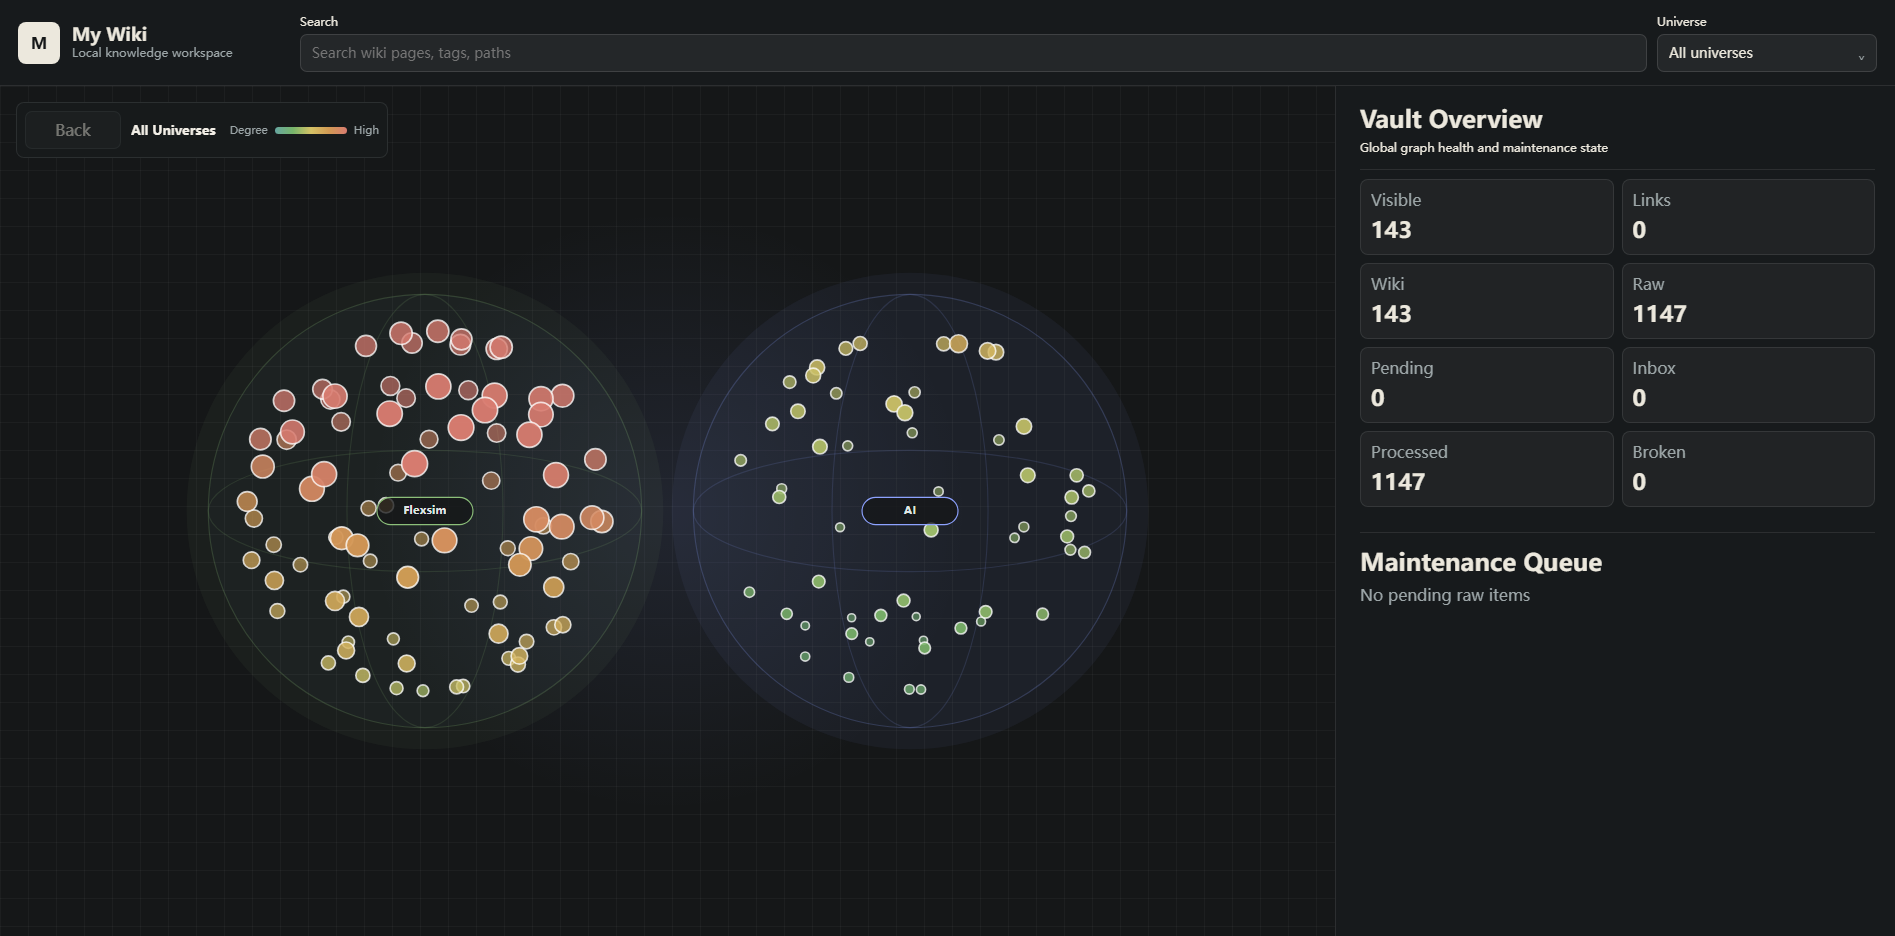
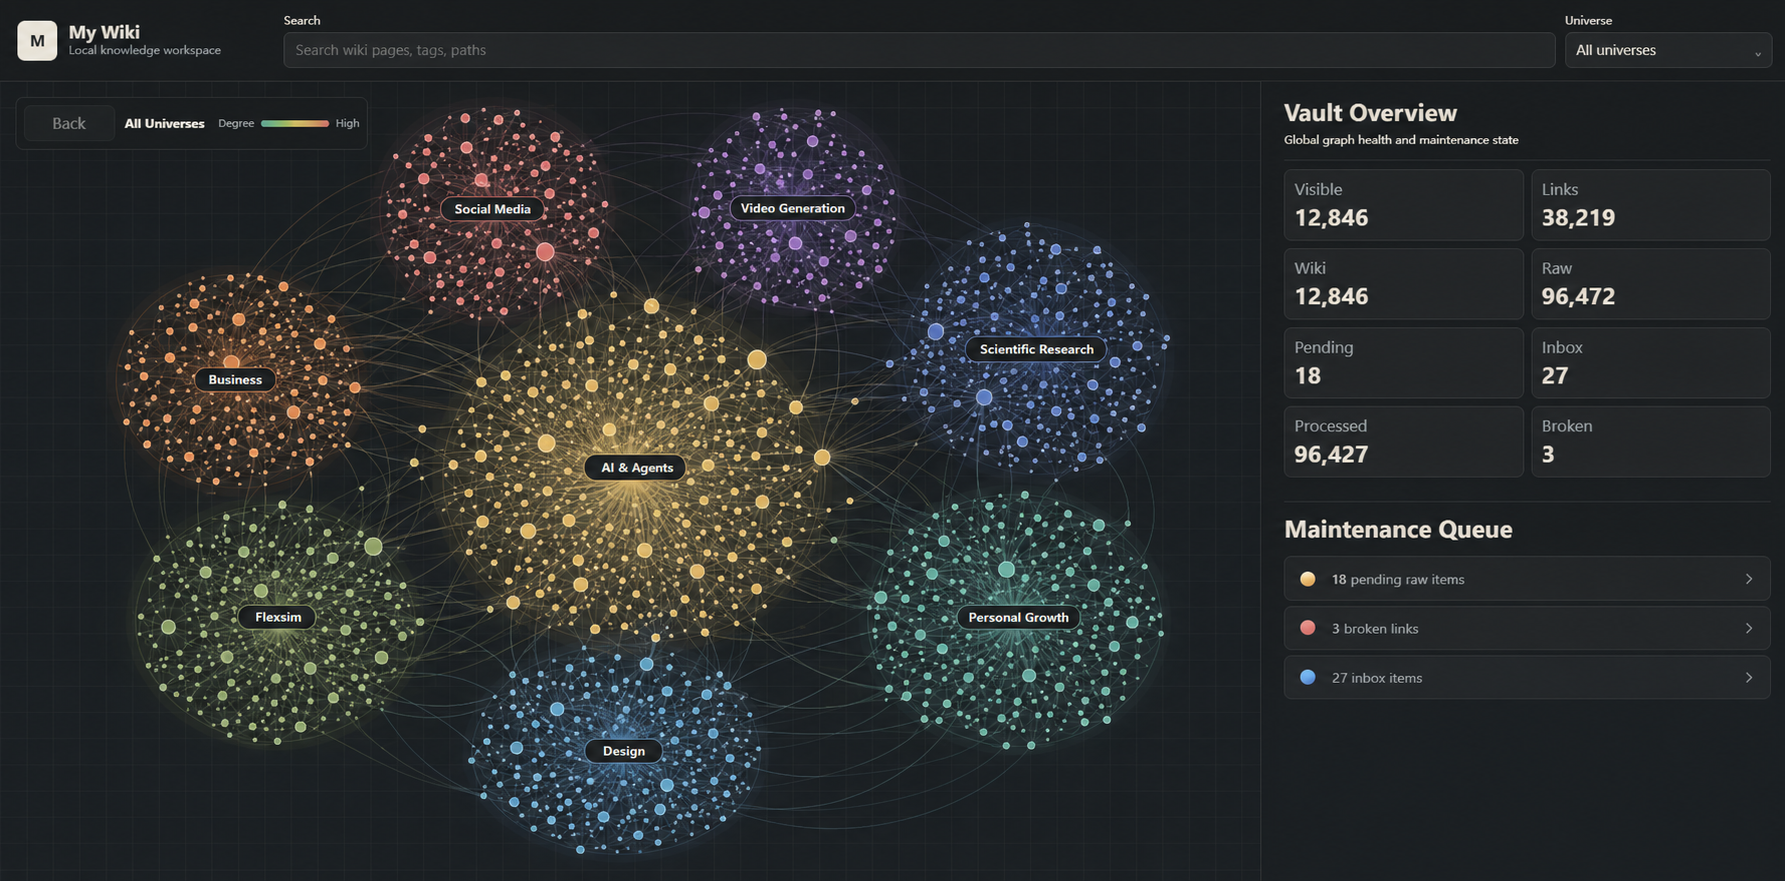
Refresh knowledge universe preview

diff --git a/README.en.md b/README.en.md
@@ -72,7 +72,7 @@ My Wiki does not merely create one summary per document. A useful source can upd
 
 ## Explore The Knowledge Universe
 
-<img width="1895" height="936" alt="My Wiki interactive knowledge universes and vault overview" src=".github/assets/knowledge-universe.png" />
+<img width="1785" height="881" alt="My Wiki interactive knowledge universes and vault overview" src="https://raw.githubusercontent.com/NimaChu/my-wiki-skill/main/.github/assets/knowledge-universe.png" />
 
 The optional local frontend is more than a folder graph:
 

diff --git a/README.md b/README.md
@@ -72,7 +72,7 @@ My Wiki 不是简单地给每份文档生成一篇摘要。一份有价值的资
 
 ## 探索知识宇宙
 
-<img width="1895" height="936" alt="My Wiki 交互式知识宇宙和全局维护状态" src=".github/assets/knowledge-universe.png" />
+<img width="1785" height="881" alt="My Wiki 交互式知识宇宙和全局维护状态" src="https://raw.githubusercontent.com/NimaChu/my-wiki-skill/main/.github/assets/knowledge-universe.png" />
 
 可选的本地前端不只是把文件画成一团点：
 